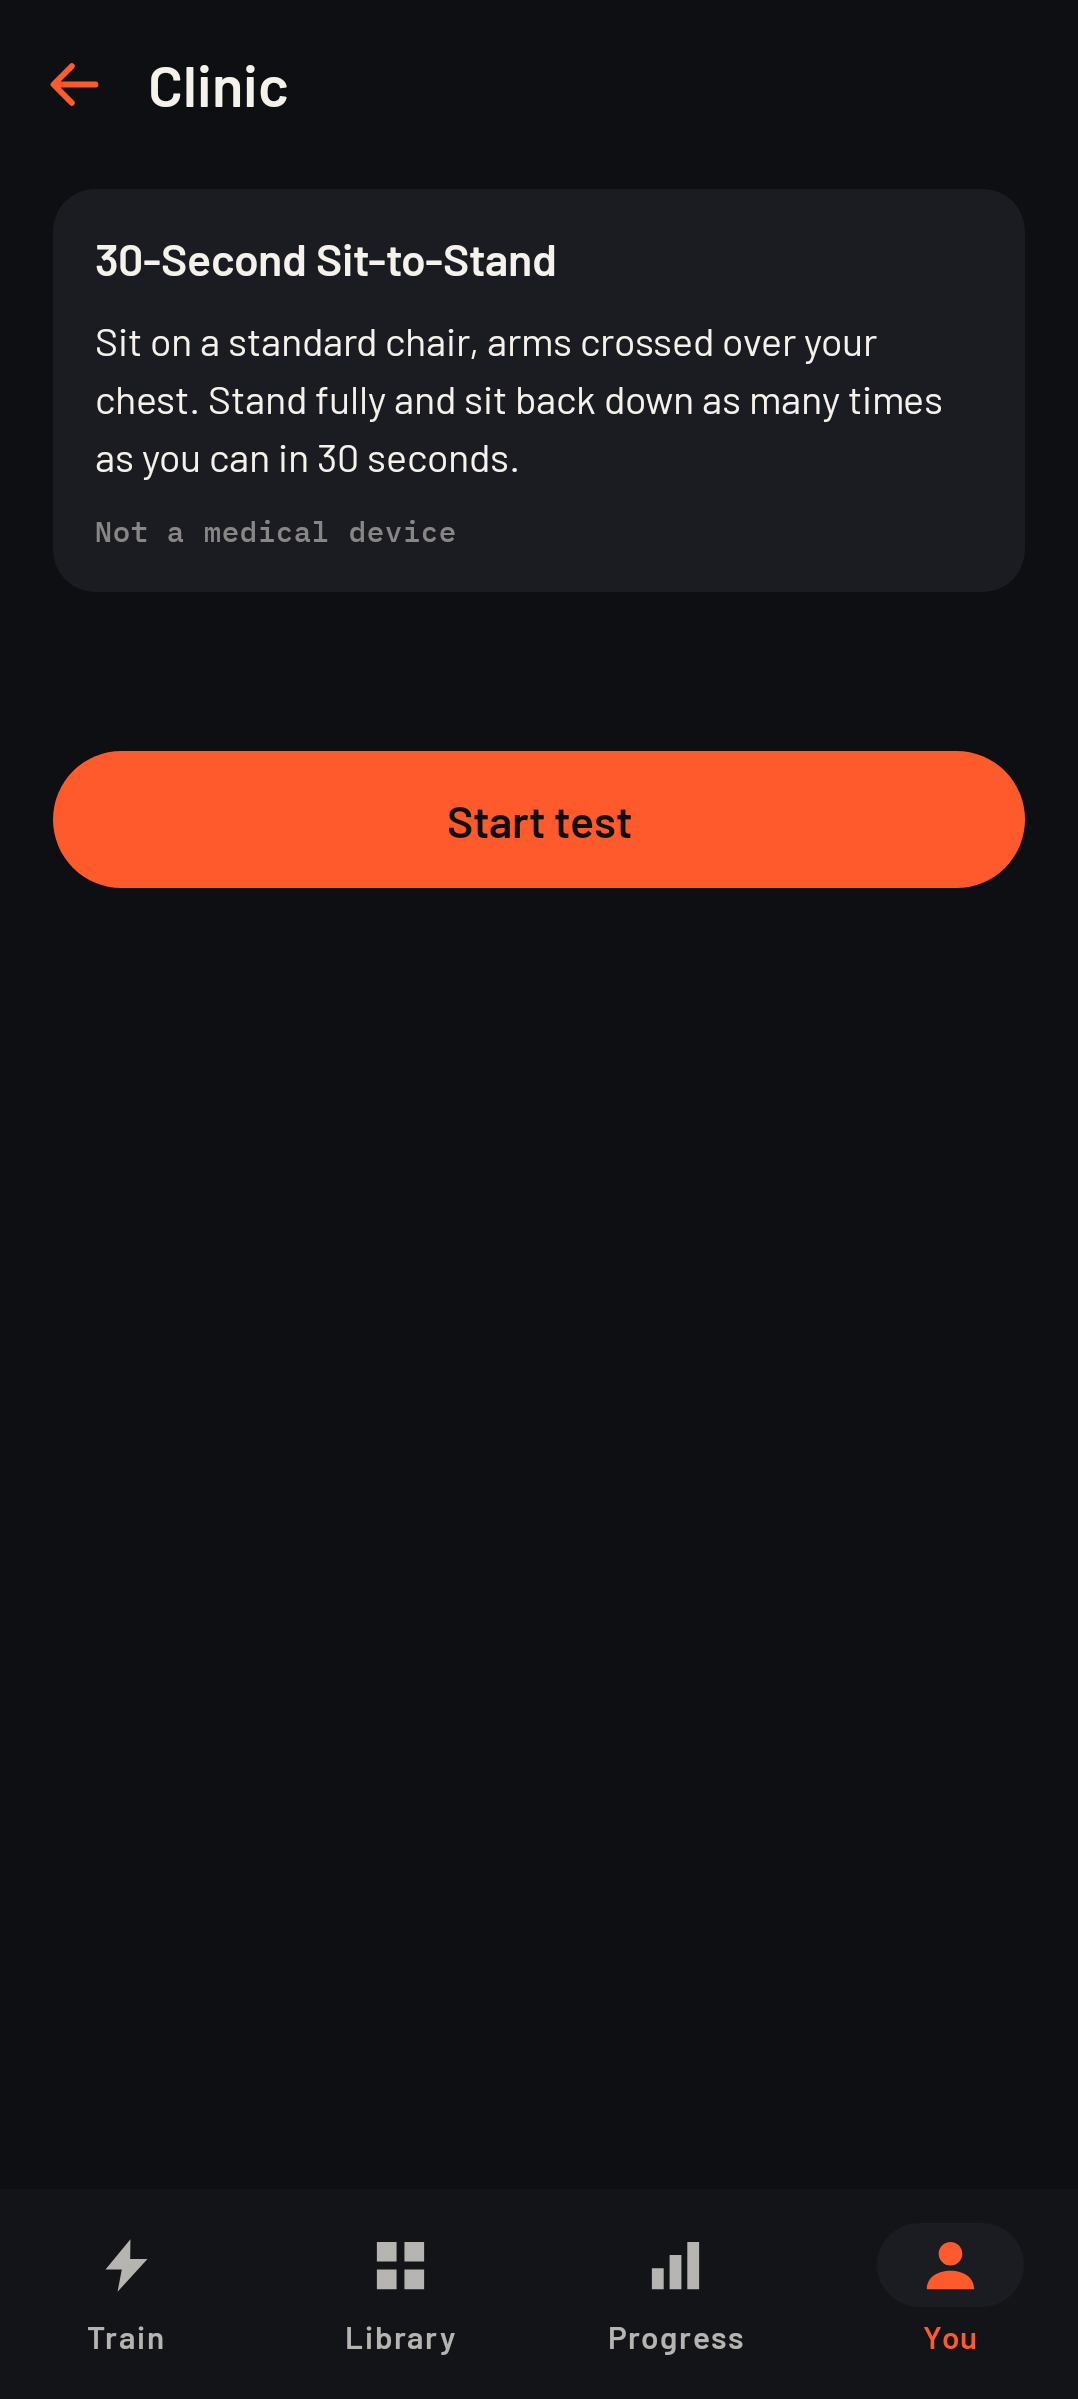
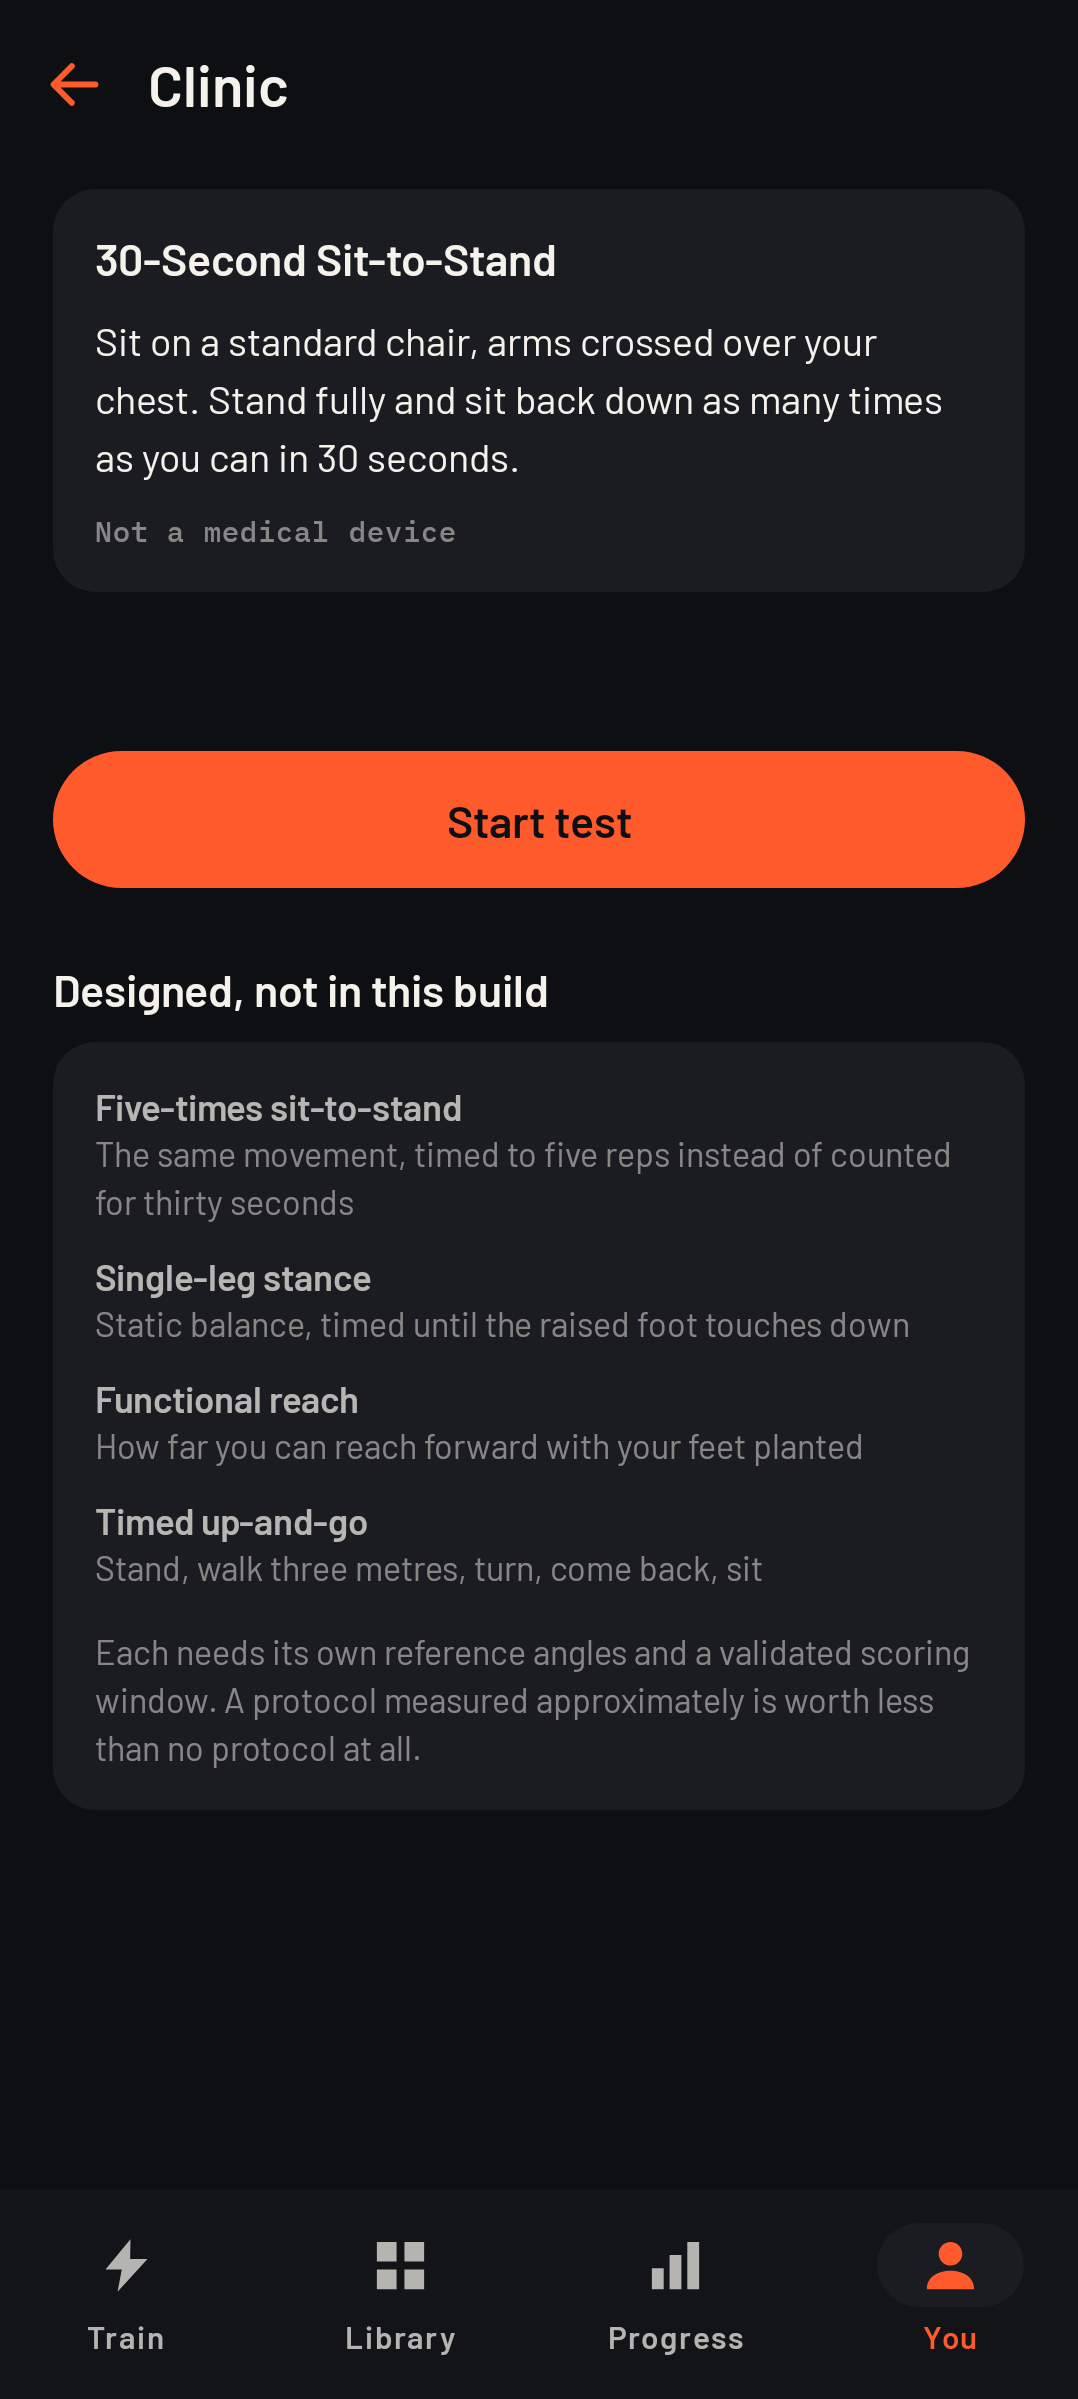
feat(android): the check screen checks ten things, and says so
A row labelled "Camera check" opened a screen that verifies the camera, the pose
model, the config, text-to-speech, the debug overlay, calibration, ghosts, exact
alarms and storage. Anyone tapping it expecting a camera test got nine answers
they had not asked for, and anyone who needed the other eight had no reason to
look. It is now "System check", and the row says what it covers.

Battery joins the list. It is item one of the pre-demo ritual in the test plan
and the single failure most likely to end a session halfway through: a fight
holds the camera, the screen and an inference loop open at the same time.
Charging passes at any level; unplugged, fifty per cent passes, twenty warns,
below that fails.

The clinic ships one protocol out of the five it is designed around, and the
screen gave no hint the other four existed. It now names them and says why they
are not here: each needs its own reference angles and a validated scoring
window, and a protocol measured approximately is worth less than no protocol.

The build status doc claimed eleven preflight checks. There were nine. There are
now ten, and it says ten.

diff --git a/android/app/src/main/java/com/clashfit/ui/screens/clinic/ClinicScreen.kt b/android/app/src/main/java/com/clashfit/ui/screens/clinic/ClinicScreen.kt
@@ -37,6 +37,8 @@ import java.time.Instant
 import java.time.LocalDate
 import java.time.ZoneId
 import java.time.format.DateTimeFormatter
+import androidx.compose.foundation.layout.Arrangement
+import com.clashfit.ui.theme.InkMuted
 
 /** 30-second sit-to-stand protocol: text, not-a-medical-device, personal trend from SessionDao. */
 @Composable
@@ -110,6 +112,36 @@ fun ClinicScreen(graph: AppGraph, nav: NavHostController, modifier: Modifier = M
                     },
                     modifier = Modifier.fillMaxWidth()
                 )
+
+                SectionGap(28)
+
+                // The clinic is designed as five protocols; one is measured well enough to ship.
+                // Naming the other four is more useful than pretending the set is complete, and
+                // more honest than a greyed-out button that does nothing.
+                SectionTitle("Designed, not in this build")
+                SectionGap(10)
+                AppCard(Modifier.fillMaxWidth()) {
+                    Column(verticalArrangement = Arrangement.spacedBy(12.dp)) {
+                        PLANNED.forEach { (name, what) ->
+                            Column {
+                                Text(name, style = MaterialTheme.typography.titleSmall, color = InkMuted)
+                                Text(
+                                    what,
+                                    style = MaterialTheme.typography.bodySmall,
+                                    color = InkFaint,
+                                    modifier = Modifier.padding(top = 2.dp),
+                                )
+                            }
+                        }
+                        Text(
+                            "Each needs its own reference angles and a validated scoring window. " +
+                                "A protocol measured approximately is worth less than no protocol at all.",
+                            style = MaterialTheme.typography.bodySmall,
+                            color = InkFaint,
+                            modifier = Modifier.padding(top = 4.dp),
+                        )
+                    }
+                }
             } else {
                 SectionGap(8)
                 EmptyState(
@@ -129,3 +161,11 @@ fun NavGraphBuilder.clinicRoutes(graph: AppGraph, nav: NavHostController) {
         ClinicScreen(graph, nav)
     }
 }
+
+/** The other four protocols from docs/25-CLINIC-MODE.md §1, none of which ship yet. */
+private val PLANNED = listOf(
+    "Five-times sit-to-stand" to "The same movement, timed to five reps instead of counted for thirty seconds",
+    "Single-leg stance" to "Static balance, timed until the raised foot touches down",
+    "Functional reach" to "How far you can reach forward with your feet planted",
+    "Timed up-and-go" to "Stand, walk three metres, turn, come back, sit",
+)

diff --git a/android/app/src/main/java/com/clashfit/ui/screens/preflight/PreflightScreen.kt b/android/app/src/main/java/com/clashfit/ui/screens/preflight/PreflightScreen.kt
@@ -1,8 +1,11 @@
 package com.clashfit.ui.screens.preflight
 
+import android.os.BatteryManager
 import android.os.Build
 
 import android.content.Context
+import android.content.Intent
+import android.content.IntentFilter
 import android.content.pm.PackageManager
 import android.speech.tts.TextToSpeech
 import androidx.compose.foundation.layout.Arrangement
@@ -76,10 +79,11 @@ fun PreflightScreen(graph: AppGraph, nav: NavHostController, modifier: Modifier 
             PreflightCheck("Ghosts", if (ghosts.isNotEmpty()) PreflightStatus.PASS else PreflightStatus.WARN, "Ghost race opponents"),
             PreflightCheck("Exact Alarms", checkAlarms(graph.app), "Wake-up and training bells"),
             PreflightCheck("Storage", checkStorage(graph.app), "Database and model cache"),
+            PreflightCheck("Battery", checkBattery(graph.app), "A fight is hard on the camera and the screen"),
         )
     }
 
-    ScreenScaffold(title = "Camera check", onBack = { nav.navigateUp() }) { padding ->
+    ScreenScaffold(title = "System check", onBack = { nav.navigateUp() }) { padding ->
         Column(modifier.fillMaxWidth().padding(padding).verticalScroll(rememberScrollState()).padding(horizontal = 20.dp, vertical = 8.dp)) {
             val passCount = checks.count { it.status == PreflightStatus.PASS }
             val failCount = checks.count { it.status == PreflightStatus.FAIL }
@@ -194,6 +198,27 @@ private fun checkStorage(context: Context): PreflightStatus {
     val db = File(context.filesDir, "clashfit.db")
     val space = context.filesDir.usableSpace
     return if (space > 100 * 1024 * 1024) PreflightStatus.PASS else PreflightStatus.WARN
+}
+
+/**
+ * Battery headroom. Item one of the pre-demo ritual in docs/14-TEST-PLAN.md §6, and the failure
+ * most likely to end a session halfway through: a fight holds the camera, the screen and an
+ * inference loop open at once. Charging counts as fine whatever the level.
+ */
+private fun checkBattery(context: Context): PreflightStatus {
+    val status = context.registerReceiver(null, IntentFilter(Intent.ACTION_BATTERY_CHANGED))
+        ?: return PreflightStatus.WARN
+    val plugged = status.getIntExtra(BatteryManager.EXTRA_PLUGGED, 0) != 0
+    if (plugged) return PreflightStatus.PASS
+    val level = status.getIntExtra(BatteryManager.EXTRA_LEVEL, -1)
+    val scale = status.getIntExtra(BatteryManager.EXTRA_SCALE, -1)
+    if (level < 0 || scale <= 0) return PreflightStatus.WARN
+    val pct = level * 100 / scale
+    return when {
+        pct >= 50 -> PreflightStatus.PASS
+        pct >= 20 -> PreflightStatus.WARN
+        else -> PreflightStatus.FAIL
+    }
 }
 
 fun NavGraphBuilder.preflightRoutes(graph: AppGraph, nav: NavHostController) {

diff --git a/android/app/src/main/java/com/clashfit/ui/screens/you/YouScreen.kt b/android/app/src/main/java/com/clashfit/ui/screens/you/YouScreen.kt
@@ -156,7 +156,13 @@ fun YouScreen(graph: AppGraph, nav: NavHostController) {
             ListGroup {
                 NavRow("Account", { nav.navigate(Account) }, icon = AppIcons.Person, tint = InkMuted)
                 InnerDivider()
-                NavRow("Camera check", { nav.navigate(Preflight) }, icon = AppIcons.Camera, tint = InkMuted)
+                NavRow(
+                    "System check",
+                    { nav.navigate(Preflight) },
+                    icon = AppIcons.Camera,
+                    supporting = "Camera, pose model, audio, storage and battery",
+                    tint = InkMuted,
+                )
                 InnerDivider()
                 NavRow("Settings", { nav.navigate(Settings) }, icon = AppIcons.Gear, tint = InkMuted)
                 InnerDivider()

diff --git a/docs/29-BUILD-STATUS.md b/docs/29-BUILD-STATUS.md
@@ -30,7 +30,7 @@ What is built and verified, what is deliberately event-only, and what is genuine
 | **Summary** — fatigue curve, PNG for the deck, CSV of raw telemetry | ✅ | [02](02-APP-FLOW.md) §2 |
 | **Traces** — record and headless replay | ✅ | [14](14-TEST-PLAN.md) §1 |
 | **Arena Mode + reduced motion + accessible rungs** | ✅ | [03](03-UI-UX-SPEC.md) §9 |
-| **Preflight** — the pre-demo ritual as a button, 11 checks | ✅ | [14](14-TEST-PLAN.md) §6 |
+| **Preflight** — the pre-demo ritual as a button, 10 checks | ✅ | [14](14-TEST-PLAN.md) §6 |
 | **Mode grid** — all 16 modes on one screen | ✅ | [17](17-GAME-MODES.md) §9 |
 | **Challenge codes** — a run becomes a ~300-char shareable string, no server | ✅ | [20](20-MULTIPLAYER-MODES.md) §5 |
 | **Trend chart** — session over session, form and reps | ✅ | [23](23-META-PROGRESSION.md) |
